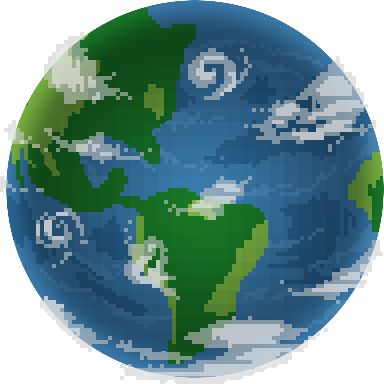
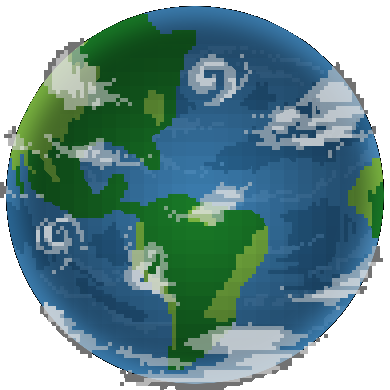
Switched back to single-layer earth, rebuilt meteor styles to be more fitting and moved them to behind the earth, cleaned up images

diff --git a/css/props.css b/css/props.css
@@ -1,4 +1,4 @@
-#ourHero, #moon, #lowEarthOrbit, #planetEarth, #earthGraphics {
+#ourHero, #moon, #lowEarthOrbit, #planetEarth {
     left:50%;
     position: absolute;
     top: 50%;
@@ -21,6 +21,22 @@
     height: 3px;
 }
 
+.meteor {
+    height:2px;
+    width:400px;
+    background-color:#fff;
+    z-index:0;
+    position:absolute;
+    transform:rotate(-35deg);
+    background: -moz-linear-gradient(left,  rgba(255,255,255,0.25) 0%, rgba(30,234,234,1) 3%, rgba(255,255,255,0.25) 6%, rgba(255,255,255,0) 100%);
+    background: -webkit-gradient(linear, left top, right top, color-stop(0%,rgba(255,255,255,0.25)), color-stop(3%,rgba(30,234,234,1)), color-stop(6%,rgba(255,255,255,0.25)), color-stop(100%,rgba(255,255,255,0)));
+    background: -webkit-linear-gradient(left,  rgba(255,255,255,0.25) 0%,rgba(30,234,234,1) 3%,rgba(255,255,255,0.25) 6%,rgba(255,255,255,0) 100%);
+    background: -o-linear-gradient(left,  rgba(255,255,255,0.25) 0%,rgba(30,234,234,1) 3%,rgba(255,255,255,0.25) 6%,rgba(255,255,255,0) 100%);
+    background: -ms-linear-gradient(left,  rgba(255,255,255,0.25) 0%,rgba(30,234,234,1) 3%,rgba(255,255,255,0.25) 6%,rgba(255,255,255,0) 100%);
+    background: linear-gradient(to right,  rgba(255,255,255,0.25) 0%,rgba(30,234,234,1) 3%,rgba(255,255,255,0.25) 6%,rgba(255,255,255,0) 100%);
+    filter: progid:DXImageTransform.Microsoft.gradient( startColorstr='#40ffffff', endColorstr='#00ffffff',GradientType=1 );
+}
+
 #theClouds {
     width:600px;
     height:600px;
@@ -34,14 +50,12 @@
     display:none;
 }
 
-#earthGraphics, #planetEarth  {
+#planetEarth {
     width:390px;
     height:390px;
     margin-left:-195px;
     margin-top:-195px;
-}
-
-#planetEarth {
+    background-image:url("../img/earth.png");
     background-size:390px;
 }
 
@@ -200,37 +214,25 @@
 
 #containerTester::after {
     content:"";
-    height:376px;
+    height:378px;
     width:60%;
     top:50%;
-	margin-left:-10%;
-    margin-top:-188px;
+    margin-left:-10%;
+    margin-top:-189px;
     position:absolute;
     overflow:hidden;
     -webkit-backface-visibility: hidden;
     background-position:center center;
     pointer-events:none;
-    transform:rotate(-30deg);
+    transform:rotate(-35deg);
     -ms-transform-origin: 100%;
     -webkit-transform-origin: 100%;
     transform-origin: 100%;
-	background: -moz-linear-gradient(left,  rgba(0,0,0,0.5) 0%, rgba(0,0,0,0.5) 95%, rgba(0,0,0,0) 100%); /* FF3.6+ */
-	background: -webkit-gradient(linear, left top, right top, color-stop(0%,rgba(0,0,0,0.5)), color-stop(95%,rgba(0,0,0,0.5)), color-stop(100%,rgba(0,0,0,0))); /* Chrome,Safari4+ */
-	background: -webkit-linear-gradient(left,  rgba(0,0,0,0.5) 0%,rgba(0,0,0,0.5) 95%,rgba(0,0,0,0) 100%); /* Chrome10+,Safari5.1+ */
-	background: -o-linear-gradient(left,  rgba(0,0,0,0.5) 0%,rgba(0,0,0,0.5) 95%,rgba(0,0,0,0) 100%); /* Opera 11.10+ */
-	background: -ms-linear-gradient(left,  rgba(0,0,0,0.5) 0%,rgba(0,0,0,0.5) 95%,rgba(0,0,0,0) 100%); /* IE10+ */
-	background: linear-gradient(to right,  rgba(0,0,0,0.5) 0%,rgba(0,0,0,0.5) 95%,rgba(0,0,0,0) 100%); /* W3C */
-	filter: progid:DXImageTransform.Microsoft.gradient( startColorstr='#80000000', endColorstr='#00000000',GradientType=1 ); /* IE6-9 */
-}
-
-.meteor {
-    width:180px;
-    height:4px;
-    z-index:0;
-    background-image:url("../img/meteors.gif");
-    background-size:180px 4px;
-    position:absolute;
-    -ms-transform: rotate(-45deg);
-    -webkit-transform: rotate(-45deg);
-    transform: rotate(-45deg);
+    background: -moz-linear-gradient(left,  rgba(0,0,0,0.5) 0%, rgba(0,0,0,0.5) 97%, rgba(0,0,0,0) 99%, rgba(0,0,0,0) 100%);
+    background: -webkit-gradient(linear, left top, right top, color-stop(0%,rgba(0,0,0,0.5)), color-stop(97%,rgba(0,0,0,0.5)), color-stop(99%,rgba(0,0,0,0)), color-stop(100%,rgba(0,0,0,0)));
+    background: -webkit-linear-gradient(left,  rgba(0,0,0,0.5) 0%,rgba(0,0,0,0.5) 97%,rgba(0,0,0,0) 99%,rgba(0,0,0,0) 100%);
+    background: -o-linear-gradient(left,  rgba(0,0,0,0.5) 0%,rgba(0,0,0,0.5) 97%,rgba(0,0,0,0) 99%,rgba(0,0,0,0) 100%);
+    background: -ms-linear-gradient(left,  rgba(0,0,0,0.5) 0%,rgba(0,0,0,0.5) 97%,rgba(0,0,0,0) 99%,rgba(0,0,0,0) 100%);
+    background: linear-gradient(to right,  rgba(0,0,0,0.5) 0%,rgba(0,0,0,0.5) 97%,rgba(0,0,0,0) 99%,rgba(0,0,0,0) 100%);
+    filter: progid:DXImageTransform.Microsoft.gradient( startColorstr='#80000000', endColorstr='#00000000',GradientType=1 );
 }

diff --git a/css/site.css b/css/site.css
@@ -21,7 +21,7 @@
 }
 
 html {
-	background-color:#0E0318;
+    background-color:#0E0318;
 }
 
 body, html {
@@ -76,46 +76,46 @@ a:focus {
 
 /* creates the larger circle */
 #infoPanel:before {
-  content:"";
-  position:absolute;
-  z-index:10;
-  left:-70px;
-  top:110px;
-  width:50px;
-  height:50px;
-  -webkit-box-shadow: -1px 0px 10px 0px rgba(255, 255, 255, 1.0);
--moz-box-shadow:    -1px 0px 10px 0px rgba(255, 255, 255, 1.0);
-box-shadow:         -1px 0px 10px 0px rgba(255, 255, 255, 1.0);
-  background:#fff;
-  /* css3 */
-  -webkit-border-radius:50px;
-  -moz-border-radius:50px;
-  border-radius:50px;
-  /* reduce the damage in FF3.0 */
-  display:block;
-  z-index:200;
+    content:"";
+    position:absolute;
+    z-index:10;
+    left:-70px;
+    top:110px;
+    width:50px;
+    height:50px;
+    -webkit-box-shadow: -1px 0px 10px 0px rgba(255, 255, 255, 1.0);
+    -moz-box-shadow:    -1px 0px 10px 0px rgba(255, 255, 255, 1.0);
+    box-shadow:         -1px 0px 10px 0px rgba(255, 255, 255, 1.0);
+    background:#fff;
+    /* css3 */
+    -webkit-border-radius:50px;
+    -moz-border-radius:50px;
+    border-radius:50px;
+    /* reduce the damage in FF3.0 */
+    display:block;
+    z-index:200;
 }
 
 /* creates the smaller circle */
 #infoPanel:after {
-  content:"";
-  position:absolute;
-  z-index:10;
-  top:170px;
-  left:-100px;
-  width:25px;
-  height:25px;
-  -webkit-box-shadow: -1px 0px 10px 0px rgba(255, 255, 255, 1.0);
--moz-box-shadow:    -1px 0px 10px 0px rgba(255, 255, 255, 1.0);
-box-shadow:         -1px 0px 10px 0px rgba(255, 255, 255, 1.0);
-  background:#fff;
-  /* css3 */
-  -webkit-border-radius:25px;
-  -moz-border-radius:25px;
-  border-radius:25px;
-  /* reduce the damage in FF3.0 */
-  display:block;
-  z-index:200;
+    content:"";
+    position:absolute;
+    z-index:10;
+    top:170px;
+    left:-100px;
+    width:25px;
+    height:25px;
+    -webkit-box-shadow: -1px 0px 10px 0px rgba(255, 255, 255, 1.0);
+    -moz-box-shadow:    -1px 0px 10px 0px rgba(255, 255, 255, 1.0);
+    box-shadow:         -1px 0px 10px 0px rgba(255, 255, 255, 1.0);
+    background:#fff;
+    /* css3 */
+    -webkit-border-radius:25px;
+    -moz-border-radius:25px;
+    border-radius:25px;
+    /* reduce the damage in FF3.0 */
+    display:block;
+    z-index:200;
 }
 
 #infoPlate {

diff --git a/js/main.js b/js/main.js
@@ -3,7 +3,7 @@
         $win = $(window),
         $theStars = $("#theStars"),
         $theHeavens = $("#theHeavens"),
-        $planetEarth = $("#planetEarth,.hemisphere"),
+        $planetEarth = $("#planetEarth"),
         $ourHero = $("#ourHero"),
         $heroStatus = $("#ourHero>#status"),
         $infoPanel = $("#infoPanel"),
@@ -444,15 +444,17 @@
         var d = $('<span />');
         
         d.addClass("meteor")
-            .appendTo($theHeavens)
+            .appendTo($theStars)
             .css("top", startY)
             .css("left", startX);
-        
-        TweenLite.to(d, 0.3, {
+            
+        TweenLite.to(d, .5, {
             css:{
-                x: "-200px", 
-                y: "+200px"
+                x: "-650px", 
+                y: "+450px",
+                opacity: 0.1
             }, 
+            ease:Sine.easeInOut, 
             onComplete: 
                 function () { 
                     d.remove();
@@ -462,9 +464,9 @@
     };
         
     function meteorShower() {
-        var rTimeout = Math.round((Math.random() * (3000 - 500)) + 1000),
-            startX = rInt(-50, (screenWidth + 50)),
-            startY = rInt(-50, (screenHeight + 50));
+        var rTimeout = Math.round((Math.random() * (3000 - 500)) + 1500),
+            startX = rInt(-100, (screenWidth + 100)),
+            startY = rInt(-100, (screenHeight + 100));
             
         setTimeout(function () {
             meteor(startX, startY);
@@ -507,10 +509,8 @@
         
         window.addEventListener ("touchmove", function (event) { event.preventDefault (); }, false);
         if (typeof window.devicePixelRatio != 'undefined' && window.devicePixelRatio > 2) {
-            alert("hit");
+            var meta = document.getElementById ("viewport");
+            meta.setAttribute ('content', 'width=device-width, initial-scale=' + (2 / window.devicePixelRatio) + ', user-scalable=no');
         }
-        
-        var meta = document.getElementById ("viewport");
-        meta.setAttribute ('content', 'width=device-width, initial-scale=' + (2 / window.devicePixelRatio) + ', user-scalable=no');
     });
 }());

diff --git a/site.html b/site.html
@@ -16,9 +16,7 @@
         <script src="js/vendor/modernizr-2.6.2.min.js"></script>
     </head>
     <body>
-    <div id="infoPanel">
-        <p>This is a blockquote that is styled to look like a thought bubble</p>
-      </div>
+        <div id="infoPanel"></div>
         <!--[if lt IE 10]>
             <p class="chromeframe">You are using an <strong>outdated</strong> browser. 
             Please <a href="http://browsehappy.com/">upgrade your browser</a> or 
@@ -27,6 +25,7 @@
         <![endif]-->
         <span id="debugCol"></span>
         <span id="infoPlate">Ashlin Allen</span>
+        
         <span id="theHeavens">
             <span id="theStars"></span>
             
@@ -40,21 +39,10 @@
                     <span id="theClouds"></span>
                 </span>
                 
-				<div id="earthGraphics" style="transform:rotate(-30deg);">
-					<div style="width:195px;height:100%;float:left;overflow:hidden;">
-						<div class="hemisphere" style="width:390px;height:390px;background-image:url('img/earthdark.png');">
-						</div>
-					</div>
-					<div style="width:195px;height:100%;float:left;overflow:hidden;">
-						<div class="hemisphere" style="width:390px;height:390px;margin-left:-195px;background-image:url('img/earth2.png');">
-						</div>
-					</div>
-				</div>
-                
                 <span id="ourHero" class="walking">
                     <span id="status"></span>
                 </span>
-				
+                
                 <span id="planetEarth">
                     <a id="computers"></a>
                     <a id="nature"></a>
